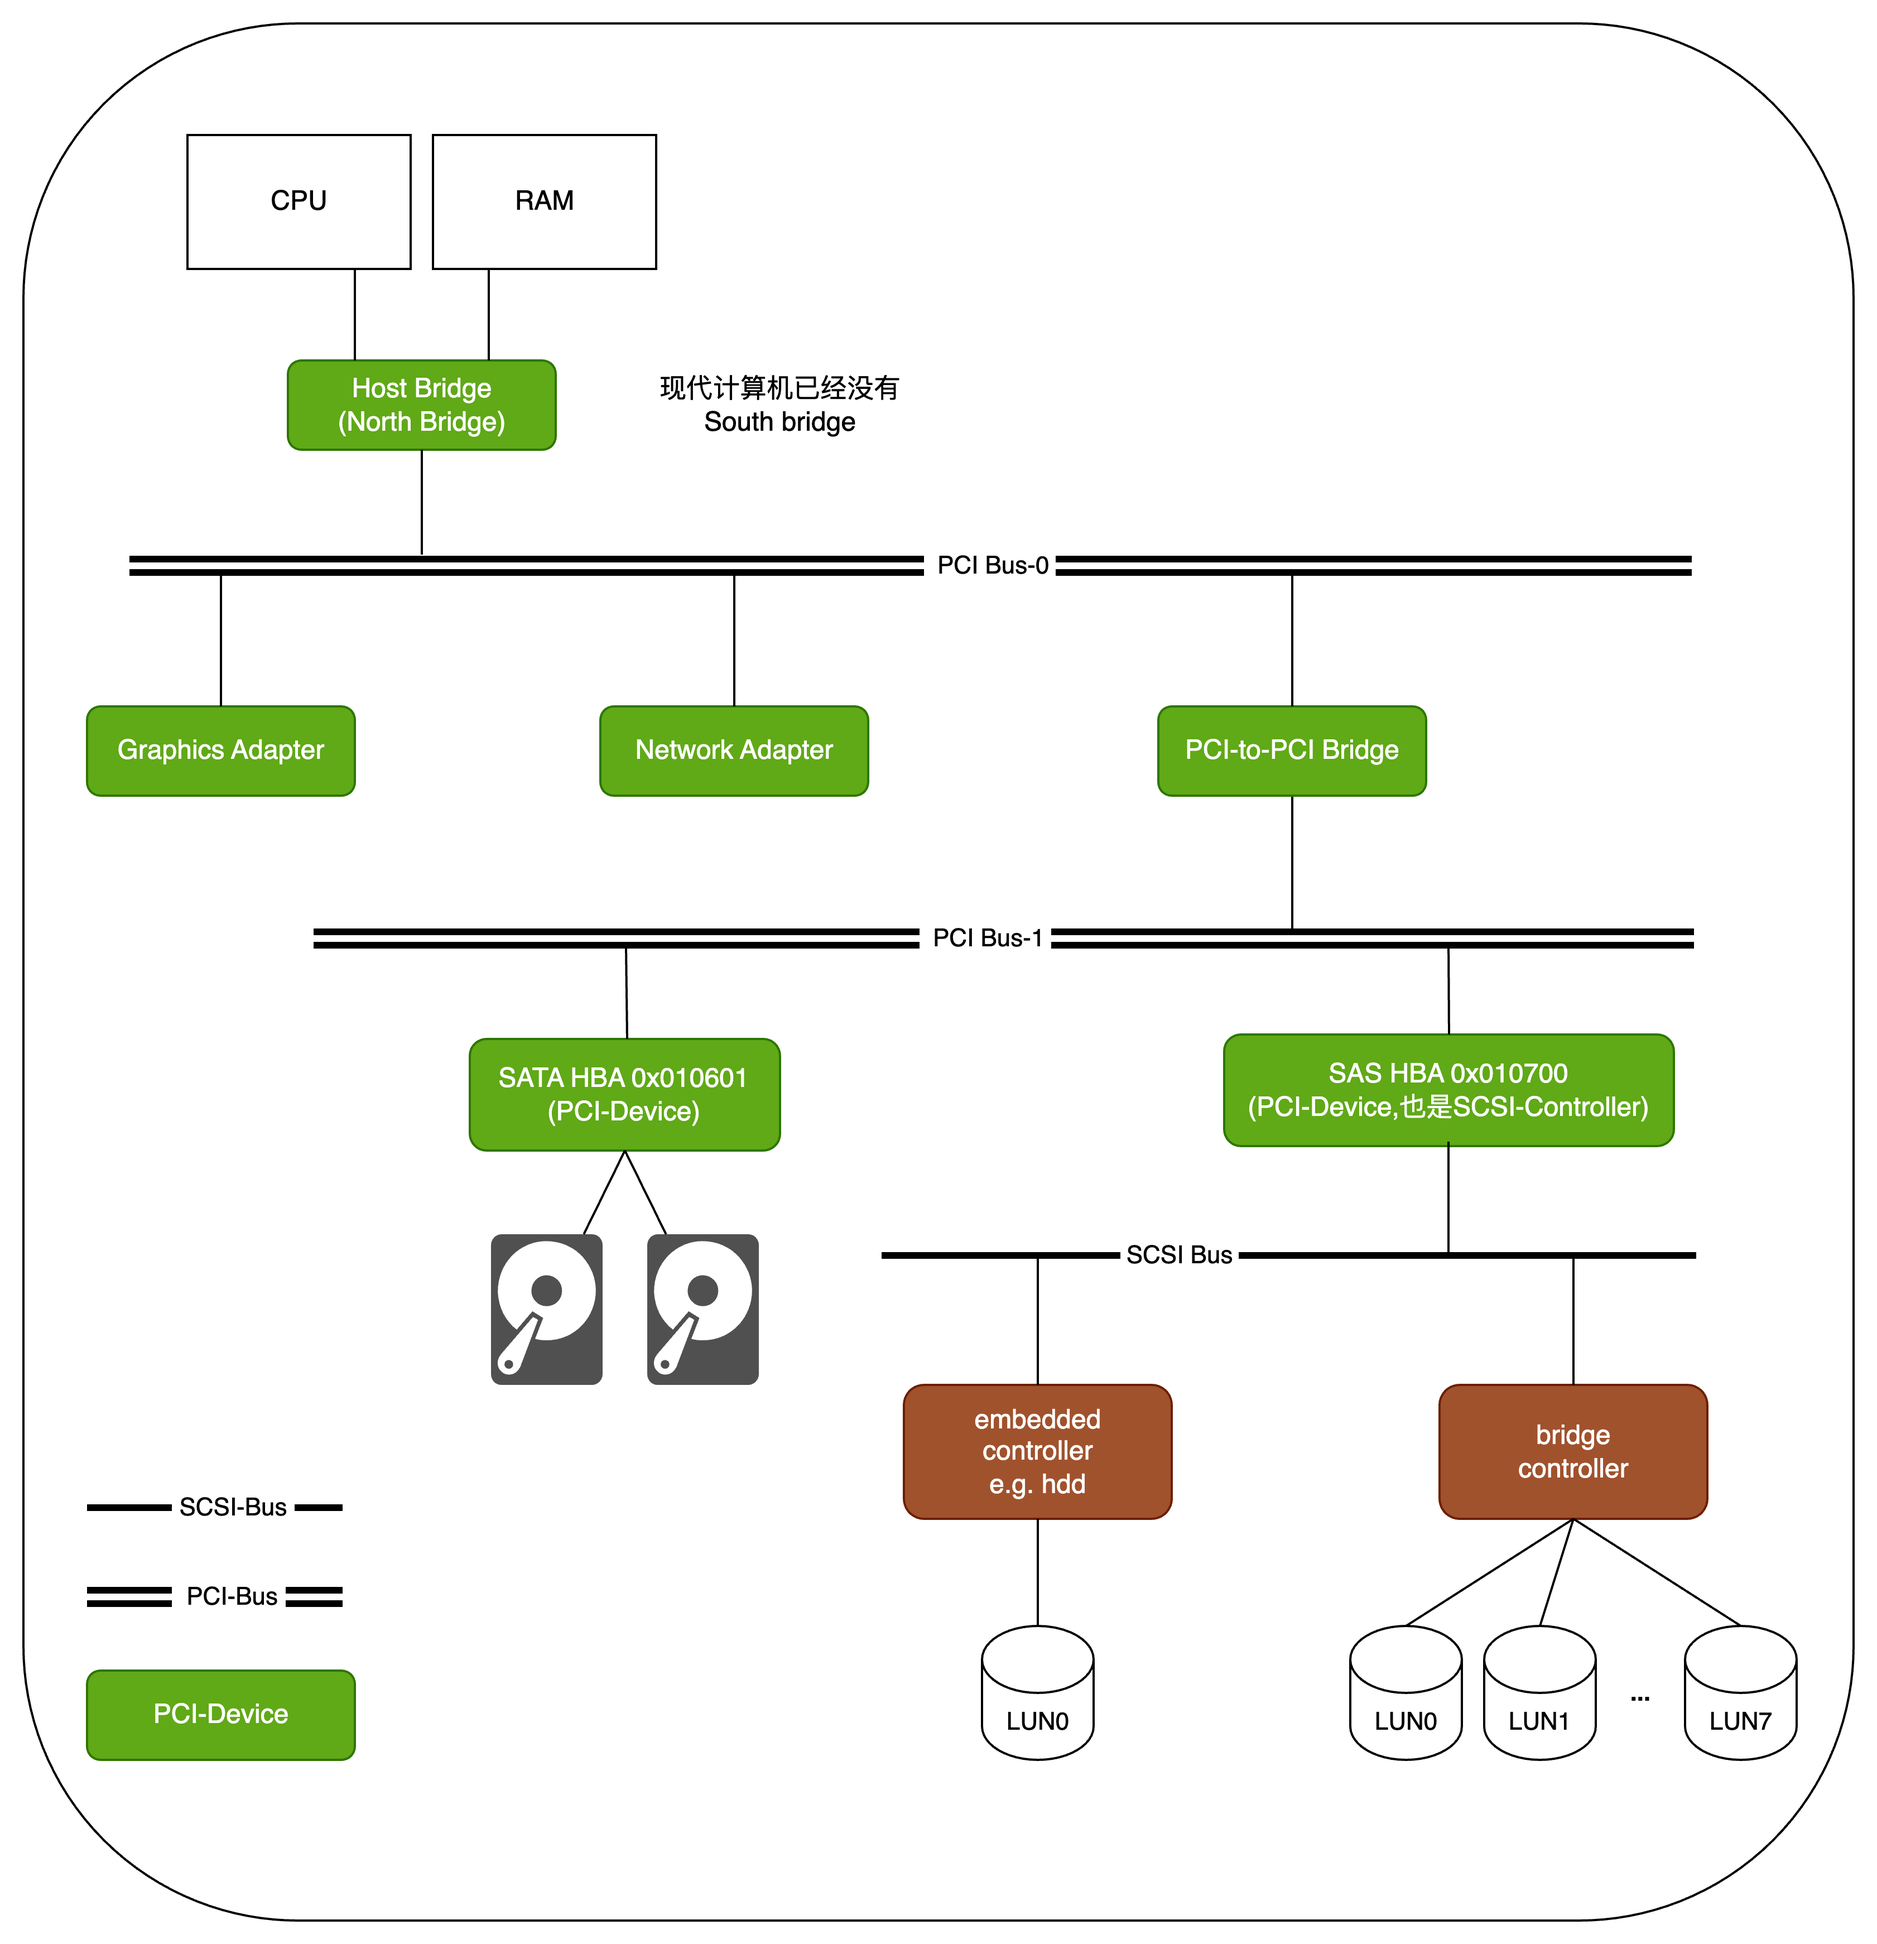
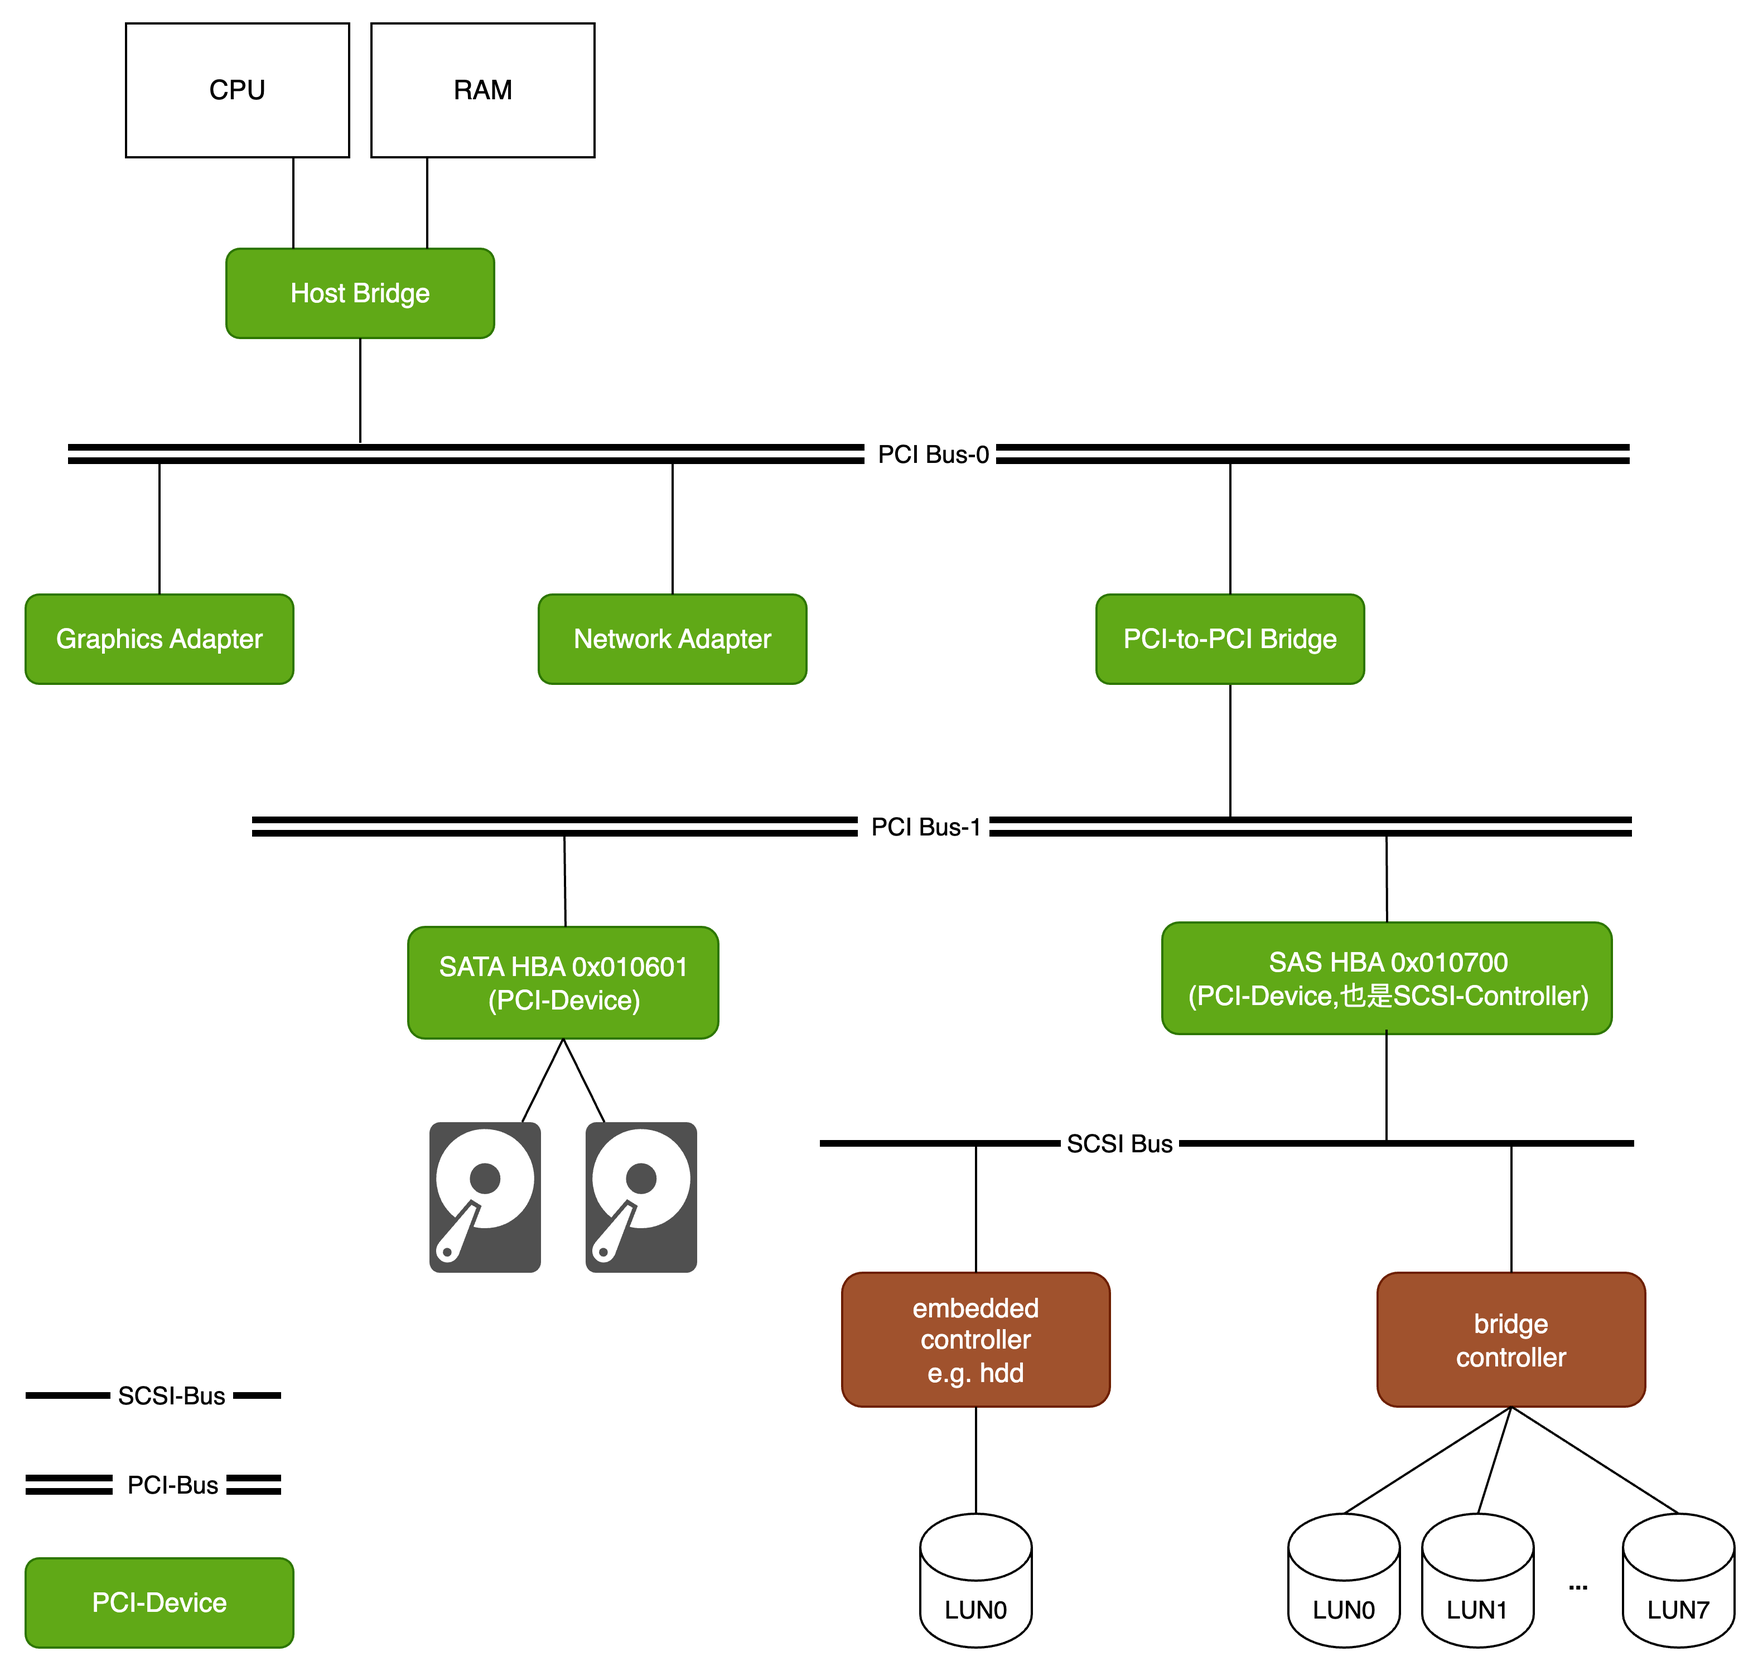
keep posting

diff --git a/virtualization-4-kvmtool-pci.md b/virtualization-4-kvmtool-pci.md
@@ -26,11 +26,11 @@ Kvmtool可以认为是一个极简版的qemu (所处软件层、功能都和qemu
     - function : 3-bit
 - 对操作系统来说，function就是独立的PCI硬件设备，由domain:bus:device.function唯一定位。可以理解为一张物理卡(设备)上包含多个PCI设备。后文说一个PCI设备多数是指一个function。
 - Typical PCI devices:
-    - Bridges: Host/North Bridge (class=0x060000), PCI-to-PCI bridge (class=0x060400)
+    - Bridges: Host Bridge (class=0x060000), PCI-to-PCI bridge (class=0x060400)
     - HBA: SATA controller (class=0x010601), SAS controller (class=0x010700) 
     - Network Adapter (class=0x020000) 
     - and so on.
-- 引用维基百科PCIe：Similar to a host bridge in a PCI system, the root complex generates transaction requests on behalf of the CPU ... 所以在PCI系统中，host bridge (north bridge) 负责生成transaction requests (TLP: Transaction Layer Packet).
+- 引用维基百科PCIe：Similar to a host bridge in a PCI system, the root complex generates transaction requests on behalf of the CPU ... 所以在PCI系统中，host bridge负责生成transaction requests (TLP: Transaction Layer Packet).
 
 ## PCIe (1.2)
 
@@ -41,7 +41,7 @@ Kvmtool可以认为是一个极简版的qemu (所处软件层、功能都和qemu
 
 PCI device是通过switch连到root complex的，所以switch内部各个port到root complex的连线是独立的，如下图所示：
 
-![figure3](pcie-switch.jpeg)
+![figure3](pcie-switch.png)
 <div style="text-align: center;"><em>图3: PCIe Switch</em></div>
 
 可见，switch就是若干internel bus和若干PCI-to-PCI bridge的组合。所谓point-to-point topology，是不是使用更多的internal bus和PCI-to-PCI bridge让每个PCI设备都有单独的link？另外，在真实服务器上使用`lspci -vv`命令查看发现bus number并不连续，是不是因为"internal bus"的number看不到？
@@ -52,8 +52,8 @@ PCI device是通过switch连到root complex的，所以switch内部各个port到
 
 从这个图可以看出:
 
-- root complex和switch的内部结构一样：也是internel bus和PCI-to-PCI bridge的组合；
-- 只不过**upstream bridge就是host bridge** (north bridge)；
+- root complex和switch的内部结构一样：也是internel bus和PCI-to-PCI bridge的组合(root complex还有别的组件和功能)。
+- 不过**upstream bridge就是host bridge**；
 
 摘自维基百科：
 
@@ -62,10 +62,21 @@ Similar to a host bridge in a PCI system, the root complex generates transaction
 - root complex可能在主板上或者CPU内部;
 - root complex负责生成transaction requests (TLP: Transaction Layer Packet); 每个PCI-to-PCI bridge和PCI endpoint设备通过memory-mapping和(或)port-mapping对应一些地址空间。这些地址空间不是main memory的地址空间(可能掩盖了对应main memory空间，也可能和main memory的空间不重合)。当CPU访问这些地址时，root complex生成transaction requests，发给对应设备处理。对配置IO Port(0xCF8和0xCFC)的读写应该也由root complex处理生成配置请求。
 
+
+摘自PCIe Specification:
+
+- Root Complex:
+    - A defined System Element that includes at least one Host Bridge, Root Port (一个root complex可以包含多个host bridges); or Root Complex Integrated Endpoint (Root Complex可以直接集成到一个PCIe Endpoint设备内部).
+    - denotes the root of an I/O hierarchy that connects the CPU/memory subsystem to the I/O.
+    - may support one or more PCI Express Ports. Each interface defines a separate hierarchy domain. Each hierarchy domain may be composed of a single Endpoint or a sub-hierarchy containing one or more Switch components and Endpoints.
+    - must support generation of configuration requests as a Requester.
+    - is permitted to support the generation of I/O Requests as a Requester.
+- Host Bridge: Part of a Root Complex that connects a host CPU or CPUs to a Hierarchy. 一个root complex可以连接多个CPU；
+
 总结：
 
-- PCIe是一个point-to-point的网络，类似于以太网；switch也可类比以太网交换机；
-- Switch有多个port，其中一个是upstream port，其它是downstream port。每个port对应一个PCI-to-PCI bridge。PCI-to-PCI bridge有自己的type-1 configuration space；必须对所有upstream/downstream bridge进行program（设置它的configuration space），然后switch才能工作，为连接在它上面的下游PCI设备转发TLP memory packets。下游PCI设备可能是endpoint device，也可能是其它switch.
+- PCIe是一个point-to-point的网络(每个Endpoint和Root Complex之间的link是独立的)，类似于以太网；
+- Switch也可类比以太网交换机；有多个port，其中一个是upstream port，其它是downstream port。每个port对应一个PCI-to-PCI bridge。PCI-to-PCI bridge有自己的type-1 configuration space；必须对所有upstream/downstream bridge进行program（设置它的configuration space），然后switch才能工作，为连接在它上面的下游PCI设备转发TLP memory packets。下游PCI设备可能是endpoint device，也可能是其它switch.
 - Switch有内部bus，连接多个port；
 - 逻辑上看，和PCI总线结构是等价的；但point-to-point结构性能更好，因为bus是独占的，不需要arbitration.
 
